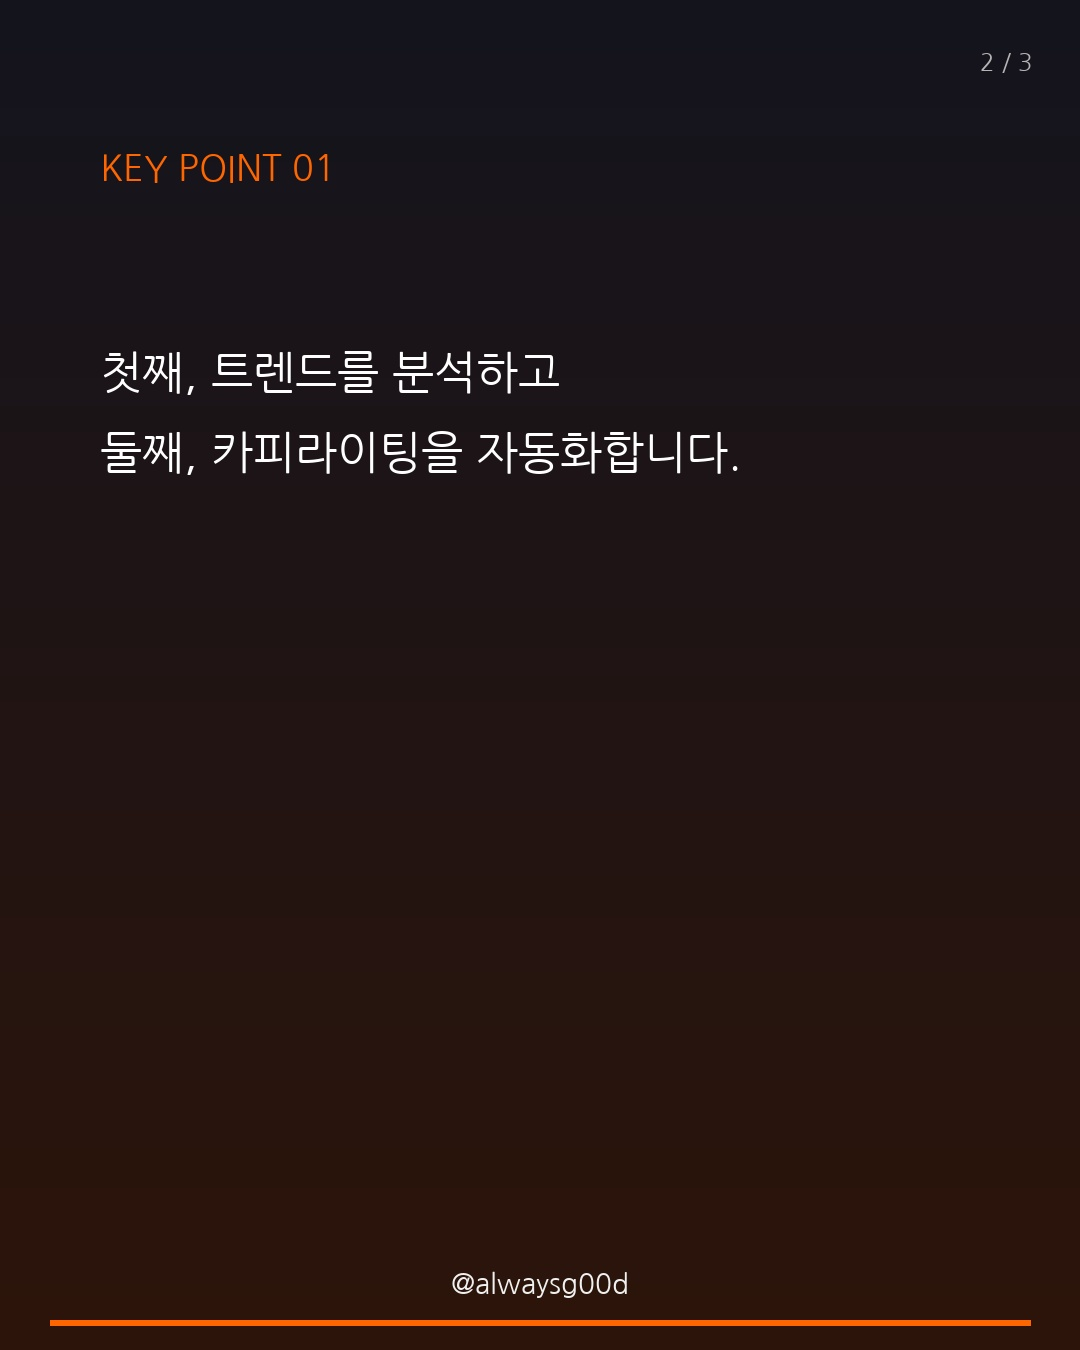
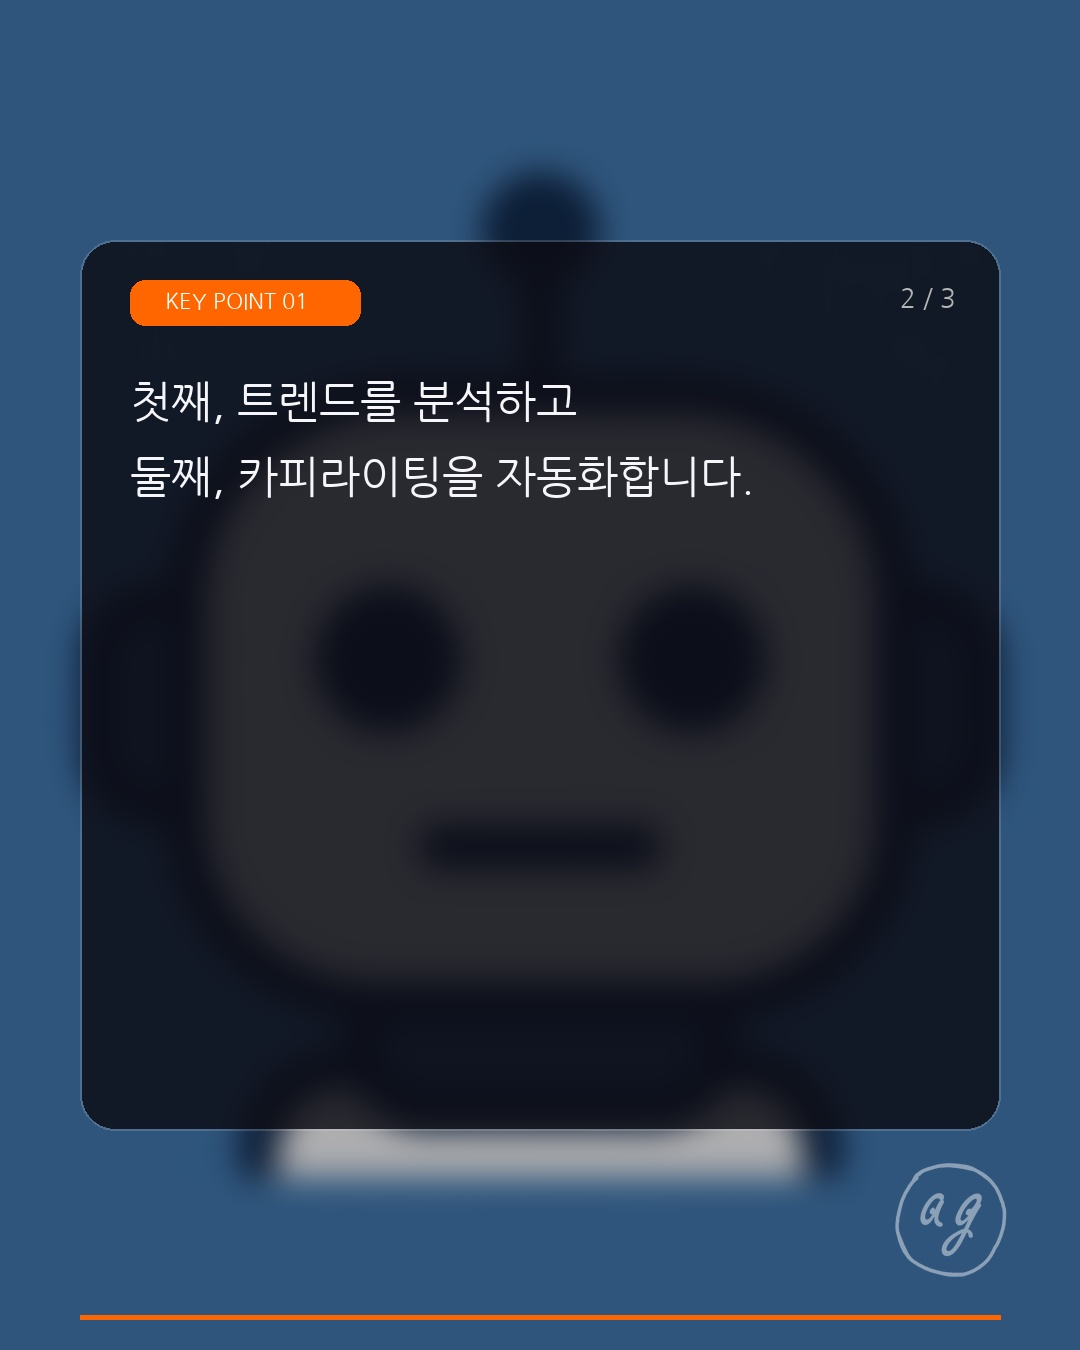
design: improve card news layout quality and update image model

diff --git a/src/script_vision.py b/src/script_vision.py
@@ -285,7 +285,7 @@ def generate_dalle_background(hooking_title: str) -> Image.Image:
         )
         
         try:
-            # Try gpt-image-1-mini first (extremely cost-efficient, approx 4x cheaper)
+            # Try gpt-image-1-mini first (supported on this API key)
             response = client.images.generate(
                 model="gpt-image-1-mini",
                 prompt=prompt,
@@ -293,10 +293,10 @@ def generate_dalle_background(hooking_title: str) -> Image.Image:
                 size="1024x1024"
             )
         except Exception as e:
-            print(f"gpt-image-1-mini failed: {e}. Trying gpt-image-2 fallback...")
-            # Fallback to gpt-image-2 (higher quality flagship, more expensive)
+            print(f"gpt-image-1-mini failed: {e}. Retrying with same model or failing back.")
+            # Fallback to gpt-image-1-mini just in case of transient error
             response = client.images.generate(
-                model="gpt-image-2",
+                model="gpt-image-1-mini",
                 prompt=prompt,
                 n=1,
                 size="1024x1024"
@@ -355,7 +355,7 @@ def resize_to_cover(image: Image.Image, target_width: int, target_height: int) -
 def draw_card_layout(slide: dict, total_pages: int, hooking_title: str, bg_image: Image.Image = None, article_title: str = None) -> Image.Image:
     """
     Generates a single 4:5 image slide based on its content and type.
-    If bg_image is provided, it is used as the visual backdrop.
+    Uses a premium glassmorphic card news layout structure.
     """
     slide_type = slide.get("type", "content")
     
@@ -369,44 +369,67 @@ def draw_card_layout(slide: dict, total_pages: int, hooking_title: str, bg_image
             
         if slide_type != "cover":
             # Apply Gaussian Blur to content slides
-            image = image.filter(ImageFilter.GaussianBlur(20))
+            image = image.filter(ImageFilter.GaussianBlur(15))
             
-        # Draw transparent overlay for readability
-        overlay = Image.new("RGBA", (WIDTH, HEIGHT), (0, 0, 0, 0))
-        draw_overlay = ImageDraw.Draw(overlay)
-        if slide_type == "cover":
-            # 55% opacity dark overlay for cover
-            draw_overlay.rectangle([0, 0, WIDTH, HEIGHT], fill=(10, 10, 15, 140))
-        else:
-            # 80% opacity dark overlay for content slides
-            draw_overlay.rectangle([0, 0, WIDTH, HEIGHT], fill=(10, 10, 15, 204))
-            
+        # Draw transparent overlay to darken slightly
+        overlay = Image.new("RGBA", (WIDTH, HEIGHT), (10, 10, 15, 80)) # ~30% opacity
         image = Image.alpha_composite(image, overlay)
     else:
         # Fallback to premium gradient if bg_image is None
         color_start = (20, 20, 30)
         color_end = (45, 20, 10)
         image = draw_gradient_background(WIDTH, HEIGHT, color_start, color_end)
+        if image.mode != "RGBA":
+            image = image.convert("RGBA")
+            
+    # Define layout dimensions
+    card_x0, card_y0 = 80, 240
+    card_x1, card_y1 = WIDTH - 80, HEIGHT - 220
+    
+    # 1. Create card overlay layer for premium glassmorphism
+    card_overlay = Image.new("RGBA", (WIDTH, HEIGHT), (0, 0, 0, 0))
+    card_draw = ImageDraw.Draw(card_overlay)
+    
+    # Choose card fill and border color based on slide type
+    if slide_type == "cover":
+        card_fill = (12, 12, 20, 190)  # ~75% opacity dark slate
+        card_border = (255, 255, 255, 50)  # Subtle white border
+    elif slide_type == "cta":
+        card_fill = (12, 12, 20, 215)  # Slightly higher opacity for final slide contrast
+        card_border = (255, 102, 0, 90)  # Subtle orange highlight border
+    else:
+        card_fill = (12, 12, 20, 210)  # ~82% opacity
+        card_border = (255, 255, 255, 40)
         
+    card_draw.rounded_rectangle(
+        [card_x0, card_y0, card_x1, card_y1],
+        radius=35,
+        fill=card_fill,
+        outline=card_border,
+        width=2
+    )
+    
+    # Alpha composite the card onto the main background
+    image = Image.alpha_composite(image, card_overlay)
     draw = ImageDraw.Draw(image)
     
-    # Key color accent line (bottom border accent)
-    key_color = (255, 102, 0, 255) # #FF6600
-    draw.rectangle([50, HEIGHT - 30, WIDTH - 50, HEIGHT - 25], fill=key_color)
+    # Key brand accent color (#FF6600)
+    key_color = (255, 102, 0, 255)
     
-    # Render slide page indicator
+    # Bottom key color brand accent bar
+    draw.rectangle([80, HEIGHT - 35, WIDTH - 80, HEIGHT - 31], fill=key_color)
+    
+    # Render slide page indicator inside the card (top-right corner)
     page_num = slide.get("page", 1)
     page_text = f"{page_num} / {total_pages}"
-    page_font = get_system_font(24)
-    draw.text((WIDTH - 100, 50), page_text, fill=(180, 180, 180, 255), font=page_font)
+    page_font = get_system_font(26)
+    draw.text((WIDTH - 180, 285), page_text, fill=(180, 180, 180, 220), font=page_font)
     
     if slide_type == "cover":
-        # Cover Page Layout
-        title_font = get_system_font(68)
-        subtitle_font = get_system_font(32)
-        
-        # Draw top accent label
-        draw_text_safe(draw, (100, 150), "TRENDING INSIGHT", fill=key_color, font=subtitle_font, stroke_width=1)
+        # Draw cover top badge
+        draw.rounded_rectangle([130, 280, 440, 325], radius=15, fill=key_color)
+        badge_font = get_system_font(22)
+        draw.text((160, 290), "TRENDING INSIGHT", fill=(255, 255, 255, 255), font=badge_font)
         
         # Draw Main Title (Bold) - use article title if available, truncated to 35 chars
         title_text = slide.get("main_text", hooking_title)
@@ -417,62 +440,75 @@ def draw_card_layout(slide: dict, total_pages: int, hooking_title: str, bg_image
             else:
                 title_text = clean_title
                 
-        lines = wrap_text(title_text, title_font, WIDTH - 200)
+        title_font = get_system_font(56)
+        lines = wrap_text(title_text, title_font, WIDTH - 260)
         
-        y_cursor = 350
+        y_cursor = 380
         for line in lines:
-            draw_text_safe(draw, (100, y_cursor), line, fill=(255, 255, 255, 255), font=title_font, stroke_width=2)
-            y_cursor += 90
+            draw_text_safe(draw, (130, y_cursor), line, fill=(255, 255, 255, 255), font=title_font, stroke_width=1)
+            y_cursor += 80
+            
+        # Draw teaser text at the bottom of the card
+        teaser_text = "옆으로 넘겨서 핵심 요약 보기 ▶"
+        teaser_font = get_system_font(26)
+        if hasattr(teaser_font, "getbbox"):
+            bbox = teaser_font.getbbox(teaser_text)
+            w = bbox[2] - bbox[0]
+        else:
+            w = len(teaser_text) * 13
+        x_pos = (WIDTH - w) // 2
+        draw.text((x_pos, HEIGHT - 300), teaser_text, fill=(230, 230, 235, 220), font=teaser_font)
         
     elif slide_type == "cta":
-        # Clean Centered CTA Page Layout
+        # Draw CTA page badge
+        draw.rounded_rectangle([130, 280, 320, 325], radius=15, fill=key_color)
+        badge_font = get_system_font(22)
+        draw.text((162, 290), "THANK YOU", fill=(255, 255, 255, 255), font=badge_font)
+        
         content_font = get_system_font(48)
-        
         main_text = slide.get("main_text", "")
-        lines = wrap_text(main_text, content_font, WIDTH - 200)
+        lines = wrap_text(main_text, content_font, WIDTH - 260)
         
-        # Calculate total height to center vertically
+        # Center text vertically inside the card body
         line_height = 85
         total_text_height = len(lines) * line_height
-        y_cursor = (HEIGHT - total_text_height) // 2
+        card_content_height = (HEIGHT - 220) - 360
+        y_cursor = 360 + (card_content_height - total_text_height) // 2
         
         for idx, line in enumerate(lines):
-            # Calculate text width to center horizontally
             if hasattr(content_font, "getbbox"):
                 bbox = content_font.getbbox(line)
                 w = bbox[2] - bbox[0]
             else:
                 w = len(line) * 24
-                
             x_pos = (WIDTH - w) // 2
             
-            # Color the first line (or matching CTA line) in key color
             if idx == 0 or "마음에 들었다면" in line:
                 line_color = key_color
             else:
                 line_color = (255, 255, 255, 255)
                 
-            draw_text_safe(draw, (x_pos, y_cursor), line, fill=line_color, font=content_font, stroke_width=1)
+            draw_text_safe(draw, (x_pos, y_cursor), line, fill=line_color, font=content_font)
             y_cursor += line_height
 
     else:
-        # Standard Content Layout
-        header_font = get_system_font(36)
-        content_font = get_system_font(45)
+        # Standard Content Slide Layout
+        # Draw Key Point badge
+        badge_text = f"KEY POINT 0{page_num - 1}" if page_num < 10 else f"KEY POINT {page_num - 1}"
+        draw.rounded_rectangle([130, 280, 360, 325], radius=15, fill=key_color)
+        badge_font = get_system_font(22)
+        draw.text((165, 290), badge_text, fill=(255, 255, 255, 255), font=badge_font)
         
-        # Draw header section (Bold)
-        header_text = f"KEY POINT 0{page_num - 1}" if page_num < 10 else f"KEY POINT {page_num - 1}"
-        draw_text_safe(draw, (100, 150), header_text, fill=key_color, font=header_font, stroke_width=1)
-        
+        content_font = get_system_font(44)
         main_text = slide.get("main_text", "")
-        lines = wrap_text(main_text, content_font, WIDTH - 200)
+        lines = wrap_text(main_text, content_font, WIDTH - 260)
         
-        y_cursor = 350
+        y_cursor = 380
         for line in lines:
-            draw_text_safe(draw, (100, y_cursor), line, fill=(255, 255, 255, 255), font=content_font)
-            y_cursor += 80
+            draw_text_safe(draw, (130, y_cursor), line, fill=(245, 245, 250, 255), font=content_font)
+            y_cursor += 75
             
-    # Apply logo watermark to the bottom right corner
+    # Apply logo watermark to the bottom right corner (outside the card)
     draw_logo_watermark(image)
     
     return image
